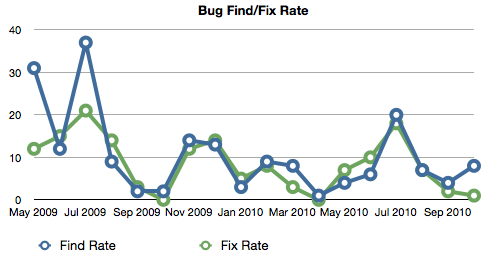
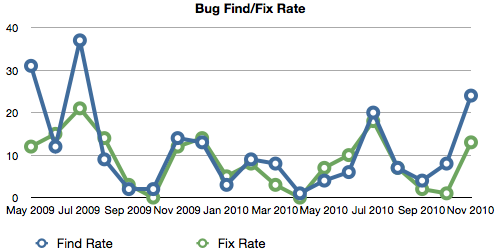
Updated for November 2010.

Changed region(s): [[0.0, 0.0, 1.0, 0.868], [0.0613, 0.924, 0.2454, 1.0], [0.3988, 0.924, 0.5521, 1.0]]

diff --git a/public_html/stats/index.html b/public_html/stats/index.html
@@ -21,8 +21,7 @@
       <br />
       Visits to taskwarrior.org and tasktools.org.
 
-      The recent uptrend due to the Dirk Deimeke articles and the new
-      Wikipedia page.
+      The recent uptrend is due to the Wikipedia page.
       <br />
       <br />
       <br />
@@ -36,6 +35,11 @@
       are unknown.  The reduction in SourceForge downloads may be due to the
       inclusion of taskwarrior packages into all major Linux distributions.
       This probably applies to source downloads in general.
+      <br />
+      <br />
+      The November spike corresponds to the release of 1.9.3.  By releasing near
+      the beginning of the month, more downloads are concentrated within that
+      month, which should heighten and narrow the spike on this chart.
       <br />
       <br />
       <br />
@@ -113,7 +117,8 @@
       scripts.
     </p>
     <p>
-      Someone is using it.
+      Someone is using it, and its popularity is growing despite no effort to
+      advertise it.
       <br />
       <br />
       <br />
@@ -133,9 +138,8 @@
       <img src="os.png" />
       <br />
       <br />
-      This chart now shows absolute numbers instead of percentages, and the
-      result is more telling.  It looks like all the new visitors are running
-      Linux.
+      This is the distribution of operating systems for our site visitors.
+      It appears that all growth is Linux-based.
       <br />
       <br />
       <br />
